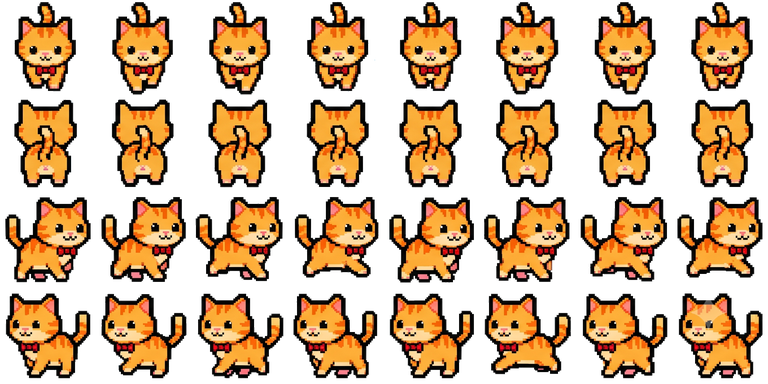
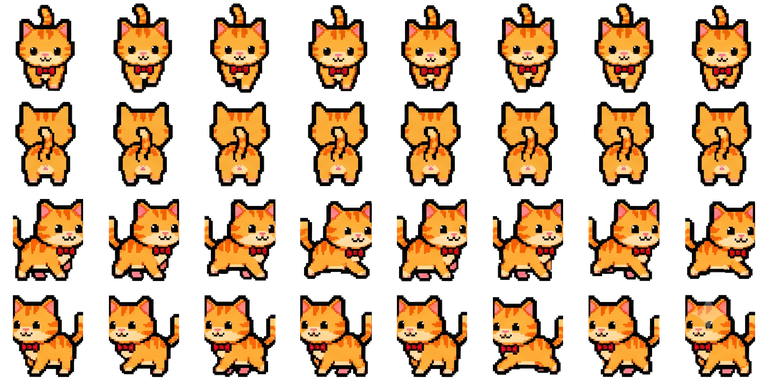
fix: 봇 스프라이트 시트 정리 및 잘못 커밋된 원본 교체
bot1.png와 bot2.png를 게임에서 쓸 수 있는 형태로 정리해 넣었다.
지난 커밋에서 원본이 그대로 올라간 것을 바로잡는다.

지난 커밋의 실수
c1fc3b4에서 `git add assets`가 폴더를 통째로 담아, 커밋하지 않겠다고 적어 둔
bot.png와 6MB짜리 원본 bot1/bot2까지 함께 올라갔다. 커밋 메시지의 설명과 실제
내용이 달랐다. 이번 커밋에서 정리본으로 교체하고 bot.png는 뺀다.
(이미 올라간 큰 파일은 저장소 이력에 남아 있다. 지우려면 이력 재작성이 필요하다.)

원본 시트의 문제
character.png 원본과 같은 쇼케이스 도안이었다.
- 제목 띠와 줄 가운데 설명 글자가 프레임 사이에 끼어 있다.
- 완전 불투명이라 모눈종이 배경이 캐릭터 뒤에 그대로 깔린다.
- 2816x1536, 각 6MB. 한 칸이 40픽셀 남짓인 화면에 견주면 과하고 번들만 키운다.

정리 도구 (tools/sprites/prepare_sheet.py)
같은 도안을 앞으로도 처리할 수 있도록 재사용 가능한 스크립트로 만들었다.
- 캐릭터와 설명 글자를 세로 길이로 구분한다. 회색·검은 고양이는 색으로 가려낼 수
  없지만, 글자는 납작하고 캐릭터는 줄 높이를 거의 채운다는 점은 색과 무관하다.
- 모눈선은 옅은 파랑이라 흰 바탕보다 어둡다. 캐릭터는 파랑이 빨강보다 크지 않으므로
  그 차이로 선만 골라 배경에 포함시킨다.
- 캐릭터가 있는 열 바깥은 원본에서 지운 뒤 자른다. 마스크에서만 빼면 잘라낼 때
  글자가 딸려 들어온다.
- 프레임마다 테두리에서 배경을 따라 들어가며 투명 처리한다. 검은 외곽선에서
  멈추므로 밝은 배 같은 내부 색은 보존된다.

결과
- 세 시트 모두 768x384 (8칸 x 4줄), 각 300KB 안팎. 원본 대비 5% 남짓.
- character.png도 같은 도구로 다시 만들어 모눈선 잔상을 없앴다.
- 원본은 tools/sprites/에 두고 gitignore로 번들과 이력에서 제외한다.
  gitignore는 폴더 전체가 아니라 png만 막도록 좁혀 도구 자체는 커밋되게 했다.

에셋 격자 검증 테스트가 통과한다 (768은 8로, 384는 4로 나누어떨어진다).

Changed region(s): [[0.0, 0.0, 1.0, 1.0], [0.1562, 0.0, 0.2188, 0.0938]]

diff --git a/tools/sprites/prepare_sheet.py b/tools/sprites/prepare_sheet.py
@@ -1,0 +1,195 @@
+"""쇼케이스용 캐릭터 시트를 게임에서 쓸 수 있는 스프라이트 시트로 정리한다.
+
+이런 시트는 보통 그대로 쓸 수 없다.
+- 위쪽에 제목 띠가 있고, 각 줄 가운데에 설명 글자가 프레임 사이에 끼어 있다.
+- 배경이 투명이 아니라 모눈종이라 캐릭터 뒤에 사각형이 그대로 보인다.
+- 원본 해상도가 과해 웹 번들이 수 MB씩 커진다.
+
+이 스크립트는 프레임 위치를 찾아 배경을 투명하게 만들고 균일한 격자로 다시 깐다.
+
+사용법:
+    python tools/sprites/prepare_sheet.py <입력.png> <출력.png> [--cell 96]
+"""
+
+import argparse
+import sys
+from collections import deque
+
+try:
+    from PIL import Image
+    import numpy as np
+except ImportError:
+    sys.exit("Pillow와 numpy가 필요합니다: pip install pillow numpy")
+
+# 배경(흰 바탕)과 캐릭터를 가르는 밝기 기준
+BACKGROUND_MIN_CHANNEL = 165
+
+# 모눈선은 옅은 파랑이라 흰 바탕보다 어둡다. 캐릭터는 따뜻한 색이라
+# 파랑이 빨강보다 크지 않으므로, 이 조건으로 선만 골라낼 수 있다.
+GRID_LINE_MIN_CHANNEL = 140
+GRID_LINE_BLUE_BIAS = 12
+
+COLUMNS = 8
+ROWS = 4
+
+# 캐릭터로 인정할 최소 세로 길이 (줄 높이 대비 비율).
+# 줄 가운데 설명 글자는 캐릭터보다 훨씬 납작해서 이 기준으로 걸러진다.
+MIN_FRAME_HEIGHT_RATIO = 0.4
+
+
+def find_bands(values, threshold, min_length):
+    """값이 threshold를 넘는 구간들을 찾는다."""
+    bands, start = [], None
+    for i, value in enumerate(values):
+        if value > threshold and start is None:
+            start = i
+        elif value <= threshold and start is not None:
+            bands.append((start, i - 1))
+            start = None
+    if start is not None:
+        bands.append((start, len(values) - 1))
+    return [b for b in bands if b[1] - b[0] > min_length]
+
+
+def is_background(pixel):
+    r, g, b = int(pixel[0]), int(pixel[1]), int(pixel[2])
+    if min(r, g, b) > BACKGROUND_MIN_CHANNEL:
+        return True
+    return b > r + GRID_LINE_BLUE_BIAS and min(r, g, b) > GRID_LINE_MIN_CHANNEL
+
+
+def background_mask(rgb):
+    """이미지 전체에 대한 배경 판정 (밴드 검출용)."""
+    r, g, b = rgb[:, :, 0], rgb[:, :, 1], rgb[:, :, 2]
+    lowest = rgb.min(axis=2)
+    return (lowest > BACKGROUND_MIN_CHANNEL) | (
+        (b > r + GRID_LINE_BLUE_BIAS) & (lowest > GRID_LINE_MIN_CHANNEL)
+    )
+
+
+def clear_background(crop):
+    """테두리에서 이어진 배경만 투명하게 만든다.
+
+    캐릭터는 검은 외곽선으로 둘러싸여 있으므로, 밝은 배가 있어도
+    바깥에서 흘러든 채우기가 외곽선에서 멈춰 내부는 보존된다.
+    """
+    height, width = crop.shape[:2]
+    visited = np.zeros((height, width), bool)
+    queue = deque()
+
+    for x in range(width):
+        for y in (0, height - 1):
+            if not visited[y, x] and is_background(crop[y, x]):
+                visited[y, x] = True
+                queue.append((y, x))
+    for y in range(height):
+        for x in (0, width - 1):
+            if not visited[y, x] and is_background(crop[y, x]):
+                visited[y, x] = True
+                queue.append((y, x))
+
+    while queue:
+        y, x = queue.popleft()
+        for dy, dx in ((1, 0), (-1, 0), (0, 1), (0, -1)):
+            ny, nx = y + dy, x + dx
+            if 0 <= ny < height and 0 <= nx < width:
+                if not visited[ny, nx] and is_background(crop[ny, nx]):
+                    visited[ny, nx] = True
+                    queue.append((ny, nx))
+
+    crop[visited, 3] = 0
+    return crop
+
+
+def find_frame_columns(content, title_height, height):
+    """캐릭터가 서 있는 열만 찾는다.
+
+    줄 가운데의 설명 글자도 어두운 픽셀이라 밝기만으로는 캐릭터와 구분되지 않는다.
+    대신 세로로 얼마나 긴지를 본다. 글자는 납작하고 캐릭터는 줄 높이를 거의 채운다.
+    """
+    row_height = (height - title_height) / ROWS
+    is_frame_column = np.zeros(content.shape[1], bool)
+
+    for row in range(ROWS):
+        y0 = int(title_height + row * row_height)
+        y1 = int(title_height + (row + 1) * row_height)
+        block = content[y0:y1]
+        for x in range(content.shape[1]):
+            filled = np.where(block[:, x])[0]
+            if filled.size == 0:
+                continue
+            extent = filled[-1] - filled[0]
+            if extent >= MIN_FRAME_HEIGHT_RATIO * (y1 - y0):
+                is_frame_column[x] = True
+
+    return find_bands(is_frame_column.astype(int), 0, 15)
+
+
+def prepare(source_path, output_path, cell_size, title_height):
+    image = Image.open(source_path).convert("RGBA")
+
+    rgb = np.asarray(image.convert("RGB")).astype(int)
+    content = ~background_mask(rgb)
+    content[:title_height, :] = False
+
+    columns = find_frame_columns(content, title_height, image.height)
+    if len(columns) != COLUMNS:
+        sys.exit(f"열을 {COLUMNS}개 찾지 못했습니다 (찾은 수: {len(columns)}). "
+                 f"--title 값을 조정해 보세요.")
+
+    # 캐릭터가 있는 열 바깥은 제목이든 설명 글자든 전부 지운다.
+    # 마스크에서만 빼면 잘라낼 때 글자가 그대로 딸려 들어온다.
+    pixels = np.array(image)
+    pixels[:title_height, :] = (255, 255, 255, 255)
+    keep = np.zeros(image.width, bool)
+    for c0, c1 in columns:
+        keep[c0:c1 + 1] = True
+    pixels[:, ~keep] = (255, 255, 255, 255)
+    image = Image.fromarray(pixels)
+
+    # 줄은 서로 붙어 검출되는 일이 잦아, 스프라이트 영역을 균등하게 나눈다.
+    top, bottom = title_height, image.height
+    row_height = (bottom - top) / ROWS
+
+    frames = []
+    for row in range(ROWS):
+        y0, y1 = int(top + row * row_height), int(top + (row + 1) * row_height)
+        for c0, c1 in columns:
+            cell = content[y0:y1, c0:c1 + 1]
+            rows_with_content = np.where(cell.any(axis=1))[0]
+            if rows_with_content.size == 0:
+                sys.exit(f"({row}, {c0}) 칸에서 그림을 찾지 못했습니다.")
+            pad = 10
+            fy0 = max(y0, y0 + rows_with_content[0] - pad)
+            fy1 = min(y1, y0 + rows_with_content[-1] + pad)
+            fx0, fx1 = max(0, c0 - pad), min(image.width, c1 + pad)
+            crop = np.array(image.crop((fx0, fy0, fx1, fy1)))
+            frames.append(Image.fromarray(clear_background(crop)))
+
+    source_cell = max(max(f.size) for f in frames)
+    sheet = Image.new("RGBA", (cell_size * COLUMNS, cell_size * ROWS), (0, 0, 0, 0))
+    for index, frame in enumerate(frames):
+        canvas = Image.new("RGBA", (source_cell, source_cell), (0, 0, 0, 0))
+        canvas.paste(frame, ((source_cell - frame.width) // 2,
+                             (source_cell - frame.height) // 2))
+        canvas = canvas.resize((cell_size, cell_size), Image.LANCZOS)
+        sheet.paste(canvas, ((index % COLUMNS) * cell_size,
+                             (index // COLUMNS) * cell_size))
+
+    sheet.save(output_path, optimize=True)
+    print(f"{output_path}: {sheet.size[0]}x{sheet.size[1]} "
+          f"({COLUMNS}칸 x {ROWS}줄), 원본 프레임 {source_cell}px")
+
+
+def main():
+    parser = argparse.ArgumentParser(description=__doc__)
+    parser.add_argument("source")
+    parser.add_argument("output")
+    parser.add_argument("--cell", type=int, default=96, help="출력 프레임 한 변 (기본 96)")
+    parser.add_argument("--title", type=int, default=290, help="제목 띠 높이")
+    args = parser.parse_args()
+    prepare(args.source, args.output, args.cell, args.title)
+
+
+if __name__ == "__main__":
+    main()
